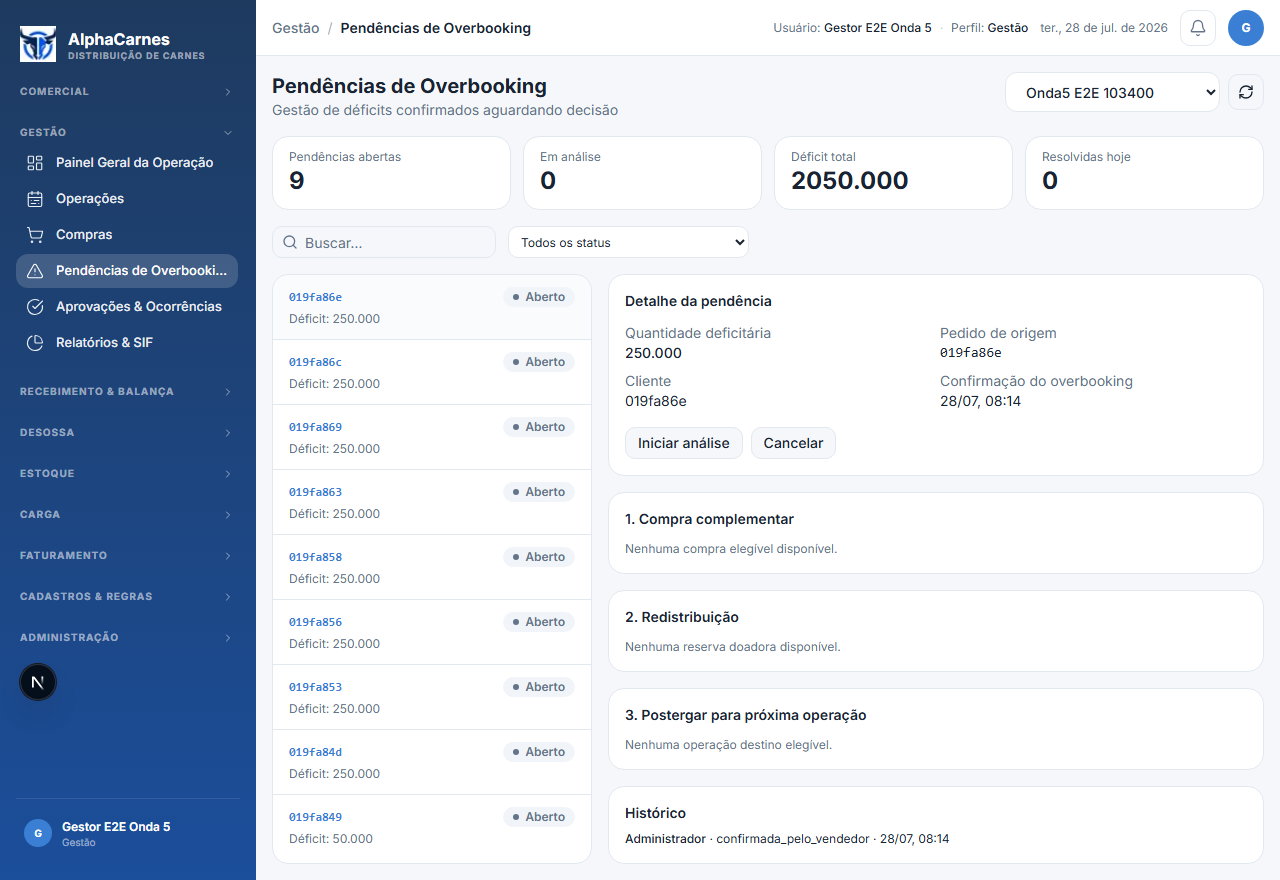
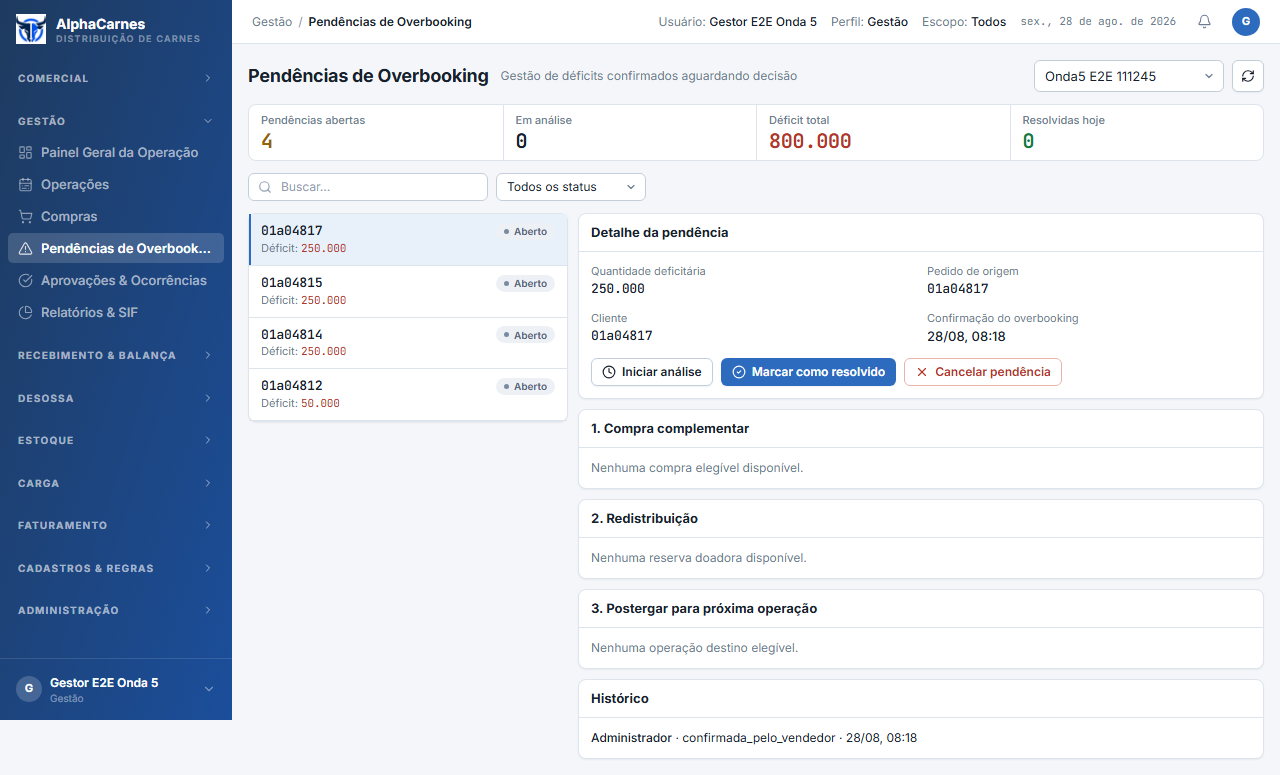
test(onda11): estabilizar playwright do gate local

diff --git a/docs/evidencias/onda5-gestao/index.html b/docs/evidencias/onda5-gestao/index.html
@@ -34,14 +34,14 @@
     <p>Evidências Playwright das 6 rotas de Gestão com dados reais no banco semeado.</p>
     <div class="badges">
       <span class="badge">10 capturas</span>
-      <span class="badge">Run 20260728111401</span>
-      <span class="badge">Data 2026-08-27</span>
+      <span class="badge">Run 20260828111846</span>
+      <span class="badge">Data 2026-09-27</span>
     </div>
   </header>
   <main class="wrap">
     <section class="context">
       <h2>Rastreabilidade dos Dados</h2>
-      <div class="context-grid"><div><strong>Run ID</strong><p><code>20260728111401</code></p></div><div><strong>Operação</strong><p><code>019fa849-e00f-7a51-ba76-e964e104c69e</code></p></div><div><strong>Data operacional</strong><p><code>2026-08-27</code></p></div><div><strong>Compra programada</strong><p><code>019fa849-e123-7952-83a2-a00cf6902388</code></p></div><div><strong>Fornecedor</strong><p><code>019fa86e-7f5f-765a-bdb8-3333558abfa0</code></p></div><div><strong>Cliente</strong><p><code>019fa86e-811f-7906-9104-a48f36840e21</code></p></div><div><strong>Item compra</strong><p><code>019fa86e-7ff7-76e2-a9a1-3f91f4253555</code></p></div><div><strong>Item comercial</strong><p><code>019fa86e-808b-7660-bbb7-d50dc08e8330</code></p></div><div><strong>Ocorrência</strong><p><code>019fa86e-8b97-76fd-8d4e-f6235ad914b3</code></p></div></div>
+      <div class="context-grid"><div><strong>Run ID</strong><p><code>20260828111846</code></p></div><div><strong>Operação</strong><p><code>01a04812-7a36-795e-a2b8-a9bfa43858b2</code></p></div><div><strong>Data operacional</strong><p><code>2026-09-27</code></p></div><div><strong>Compra programada</strong><p><code>01a04812-7a58-7eff-8ac4-26f0c0837eb2</code></p></div><div><strong>Fornecedor</strong><p><code>01a04817-fa7d-71ea-ab69-fc5a2d4eb119</code></p></div><div><strong>Cliente</strong><p><code>01a04817-faa0-70b5-81ac-3caae2f76cda</code></p></div><div><strong>Item compra</strong><p><code>01a04817-fa87-7075-859b-2a8a92bb7bce</code></p></div><div><strong>Item comercial</strong><p><code>01a04817-fa93-79fa-8426-73d89890c044</code></p></div><div><strong>Ocorrência</strong><p><code>01a04817-fb2f-7c9c-ba4c-a0d4dd6ab0d3</code></p></div></div>
     </section>
     <section class="coverage">
       <h2>Cobertura</h2>
@@ -57,7 +57,7 @@
             <span>01</span>
             <div>
               <h2>Painel Geral da Operação</h2>
-              <code>http://localhost:3100/gestao/dashboard?operacaoId=019fa849-e00f-7a51-ba76-e964e104c69e</code>
+              <code>http://localhost:4000/gestao/dashboard?operacaoId=01a04812-7a36-795e-a2b8-a9bfa43858b2</code>
             </div>
           </div>
           <div class="meta-grid">
@@ -74,7 +74,7 @@
             <span>02</span>
             <div>
               <h2>Operações</h2>
-              <code>http://localhost:3100/gestao/operacoes</code>
+              <code>http://localhost:4000/gestao/operacoes</code>
             </div>
           </div>
           <div class="meta-grid">
@@ -91,7 +91,7 @@
             <span>03</span>
             <div>
               <h2>Compras</h2>
-              <code>http://localhost:3100/gestao/compras</code>
+              <code>http://localhost:4000/gestao/compras?dataOperacao=2026-09-27&amp;compraId=01a04812-7a58-7eff-8ac4-26f0c0837eb2</code>
             </div>
           </div>
           <div class="meta-grid">
@@ -108,7 +108,7 @@
             <span>04</span>
             <div>
               <h2>Pendências de Overbooking</h2>
-              <code>http://localhost:3100/gestao/overbooking?operacaoId=019fa849-e00f-7a51-ba76-e964e104c69e</code>
+              <code>http://localhost:4000/gestao/overbooking?operacaoId=01a04812-7a36-795e-a2b8-a9bfa43858b2</code>
             </div>
           </div>
           <div class="meta-grid">
@@ -125,7 +125,7 @@
             <span>05</span>
             <div>
               <h2>Aprovações &amp; Ocorrências</h2>
-              <code>http://localhost:3100/gestao/aprovacoes?operacaoId=019fa849-e00f-7a51-ba76-e964e104c69e</code>
+              <code>http://localhost:4000/gestao/aprovacoes?operacaoId=01a04812-7a36-795e-a2b8-a9bfa43858b2</code>
             </div>
           </div>
           <div class="meta-grid">
@@ -142,7 +142,7 @@
             <span>06</span>
             <div>
               <h2>Relatórios &amp; SIF</h2>
-              <code>http://localhost:3100/gestao/relatorios?operacaoId=019fa849-e00f-7a51-ba76-e964e104c69e</code>
+              <code>http://localhost:4000/gestao/relatorios?operacaoId=01a04812-7a36-795e-a2b8-a9bfa43858b2</code>
             </div>
           </div>
           <div class="meta-grid">
@@ -159,7 +159,7 @@
             <span>07</span>
             <div>
               <h2>Painel de impacto — déficit projetado</h2>
-              <code>http://localhost:3100/gestao/compras</code>
+              <code>http://localhost:4000/gestao/compras?dataOperacao=2026-09-27&amp;compraId=01a04812-7a58-7eff-8ac4-26f0c0837eb2</code>
             </div>
           </div>
           <div class="meta-grid">
@@ -176,7 +176,7 @@
             <span>08</span>
             <div>
               <h2>Overbooking — três caminhos de decisão</h2>
-              <code>http://localhost:3100/gestao/overbooking?operacaoId=019fa849-e00f-7a51-ba76-e964e104c69e</code>
+              <code>http://localhost:4000/gestao/overbooking?operacaoId=01a04812-7a36-795e-a2b8-a9bfa43858b2</code>
             </div>
           </div>
           <div class="meta-grid">
@@ -193,7 +193,7 @@
             <span>09</span>
             <div>
               <h2>Comparativo Pedido × NF × Pesagem</h2>
-              <code>http://localhost:3100/gestao/aprovacoes?operacaoId=019fa849-e00f-7a51-ba76-e964e104c69e</code>
+              <code>http://localhost:4000/gestao/aprovacoes?operacaoId=01a04812-7a36-795e-a2b8-a9bfa43858b2</code>
             </div>
           </div>
           <div class="meta-grid">
@@ -210,7 +210,7 @@
             <span>10</span>
             <div>
               <h2>Relatórios SIF — histórico de versões</h2>
-              <code>http://localhost:3100/gestao/relatorios?operacaoId=019fa849-e00f-7a51-ba76-e964e104c69e</code>
+              <code>http://localhost:4000/gestao/relatorios?operacaoId=01a04812-7a36-795e-a2b8-a9bfa43858b2</code>
             </div>
           </div>
           <div class="meta-grid">

diff --git a/docs/evidencias/onda11-multicompra/index.html b/docs/evidencias/onda11-multicompra/index.html
@@ -17,15 +17,15 @@
   <h1>Onda 11 — Múltiplas compras por operação</h1>
   <p>Referência visual: <strong>AD-10 / DS v3</strong> (<code>docs/ds-preview/direcao-a/</code>). Protótipo v1.1 não foi exigido.</p>
   <table>
-    <tr><th>SHA</th><td><code>7c051c0071a7dd3e5f7d0b6ccf5a499fbd9a3999</code></td></tr>
-    <tr><th>Data</th><td>2026-08-28T10:03:22.361Z</td></tr>
-    <tr><th>Run</th><td>20260828100314</td></tr>
-    <tr><th>Operação</th><td><code>01a047d2-d4ff-7559-a2d1-54ae360f2f3f</code> · 2026-08-28</td></tr>
-    <tr><th>Compra 001</th><td><code>01a047d2-d515-732d-bea4-562f25173b4c</code> · Lote 001</td></tr>
-    <tr><th>Compra 002</th><td><code>01a047d2-d54e-7700-830c-75535ce76982</code> · Lote 002</td></tr>
-    <tr><th>Pedido</th><td><code>01a047d2-e95e-7d32-8ddf-108cc3349e22</code></td></tr>
-    <tr><th>Recebimentos</th><td><code>01a047d2-d5ad-744f-a425-5f3ce7be2800</code> / <code>01a047d2-d5e7-7c1c-9fc5-b0d19b989f05</code></td></tr>
-    <tr><th>Caminhão</th><td><code>01a047d2-efba-79b9-8438-b86ed7e4957a</code></td></tr>
+    <tr><th>SHA</th><td><code>1c96973f64835ac0a9217eeebd52d0bc3ecdd323</code></td></tr>
+    <tr><th>Data</th><td>2026-08-28T11:18:45.937Z</td></tr>
+    <tr><th>Run</th><td>20260828111840</td></tr>
+    <tr><th>Operação</th><td><code>01a04812-5d84-7988-aef9-88153103c14f</code> · 2026-08-28</td></tr>
+    <tr><th>Compra 001</th><td><code>01a04817-e3b1-7637-a0ac-50907fe9d7e5</code> · Lote 007</td></tr>
+    <tr><th>Compra 002</th><td><code>01a04817-e3d7-756c-83d7-abc9fed4b94b</code> · Lote 008</td></tr>
+    <tr><th>Pedido</th><td><code>01a04817-eee2-79b8-8693-c27e0e9d7946</code></td></tr>
+    <tr><th>Recebimentos</th><td><code>01a04817-e40f-7aef-8146-00a5243b9730</code> / <code>01a04817-e437-7f86-af9d-8868b1bde870</code></td></tr>
+    <tr><th>Caminhão</th><td><code>01a04817-f51b-71c0-aeb9-061a8a44820d</code></td></tr>
   </table>
   <h2>Comandos do gate local</h2>
   <pre>HARDWARE_FAKE=1 NFSE_FAKE=1
@@ -33,7 +33,7 @@ npm ci / lint / type-check / test
 app/backend: npm run test:cov ; npx drizzle-kit check
 app/frontend: npm test ; npx playwright test e2e/onda5-gestao.spec.ts e2e/onda11-multicompra.spec.ts
 docker compose up --build -d</pre>
-  <p>Playwright O11 URLs: <code>http://localhost:4000/gestao/compras?dataOperacao=2026-08-28&amp;compraId=01a047d2-d515-732d-bea4-562f25173b4c</code> · <code>http://localhost:4000/comercial/pedidos</code> · <code>http://localhost:4000/recebimento/pesagem-destinacao?recebimentoId=01a047d2-d5ad-744f-a425-5f3ce7be2800</code> · <code>http://localhost:4000/carga/conferencia</code></p>
+  <p>Playwright O11 URLs: <code>http://localhost:4000/gestao/compras?dataOperacao=2026-08-28&amp;compraId=01a04817-e3b1-7637-a0ac-50907fe9d7e5</code> · <code>http://localhost:4000/comercial/pedidos</code> · <code>http://localhost:4000/recebimento/pesagem-destinacao?recebimentoId=01a04817-e40f-7aef-8146-00a5243b9730</code> · <code>http://localhost:4000/carga/conferencia</code></p>
   <h2>Telas (DS v3)</h2>
   <h3>01 — Compras master-detail</h3>
   <p><a href="01-compras-master-detail.png">01-compras-master-detail.png</a></p>

diff --git a/app/frontend/e2e/onda5-gestao.spec.ts b/app/frontend/e2e/onda5-gestao.spec.ts
@@ -592,8 +592,9 @@ test.describe('Onda 5 — Gestão (6 rotas)', () => {
 
       try {
         await page.goto('/gestao/dashboard');
-        await page.getByRole('link', { name: rota.menuLabel, exact: true }).click();
-        await expect(page).toHaveURL(new RegExp(`${rota.href.replace(/\//g, '\\/')}`));
+        await expect(page.getByLabel('Selecionar operação')).toBeVisible({ timeout: 15_000 });
+        await page.getByRole('navigation').getByRole('link', { name: rota.menuLabel, exact: true }).click();
+        await expect(page).toHaveURL(new RegExp(`${rota.href.replace(/\//g, '\\/')}`), { timeout: 15_000 });
         await expect(page.getByRole('heading', { level: 1 })).toContainText(rota.titulo);
 
         if (rota.href === '/gestao/dashboard') {
@@ -623,8 +624,8 @@ test.describe('Onda 5 — Gestão (6 rotas)', () => {
 
         if (rota.href === '/gestao/aprovacoes') {
           await page.goto(`/gestao/aprovacoes?operacaoId=${dados.operacaoId}`);
-          await expect(page.getByRole('button', { name: 'Fila Administrativa de Ocorrências' })).toBeVisible();
-          await expect(page.getByRole('button', { name: 'Aprovações Operacionais' })).toBeVisible();
+          await expect(page.getByRole('tab', { name: 'Fila Administrativa de Ocorrências' })).toBeVisible();
+          await expect(page.getByRole('tab', { name: 'Aprovações Operacionais' })).toBeVisible();
         }
 
         if (rota.href === '/gestao/relatorios') {
@@ -692,7 +693,7 @@ test.describe('Onda 5 — Gestão (6 rotas)', () => {
       );
 
       await page.goto(`/gestao/aprovacoes?operacaoId=${dados.operacaoId}`);
-      await page.getByRole('button', { name: 'Fila Administrativa de Ocorrências' }).click();
+      await page.getByRole('tab', { name: 'Fila Administrativa de Ocorrências' }).click();
       const indiceOcorrencia = dados.ocorrenciaIndice;
       expect(indiceOcorrencia).toBeDefined();
       const itemOcorrencia = page

diff --git a/app/frontend/e2e/onda11-multicompra.spec.ts b/app/frontend/e2e/onda11-multicompra.spec.ts
@@ -498,9 +498,7 @@ test.describe('Onda 11 — jornada multicompra', () => {
       );
 
       await page.goto('/carga/conferencia');
-      await page.getByText(caminhao.id.slice(0, 8)).first().click({ timeout: 20_000 }).catch(async () => {
-        await page.locator('button').filter({ hasText: /O11|Placa/ }).first().click();
-      });
+      await page.getByRole('button', { name: new RegExp(`O11${dados.runId.slice(-4)}`) }).click({ timeout: 20_000 });
       await expect(page.getByText(rotuloLote(dados.seq1))).toBeVisible({ timeout: 20_000 });
       await shot(page, '04-expedicao-origem.png');
     } finally {
